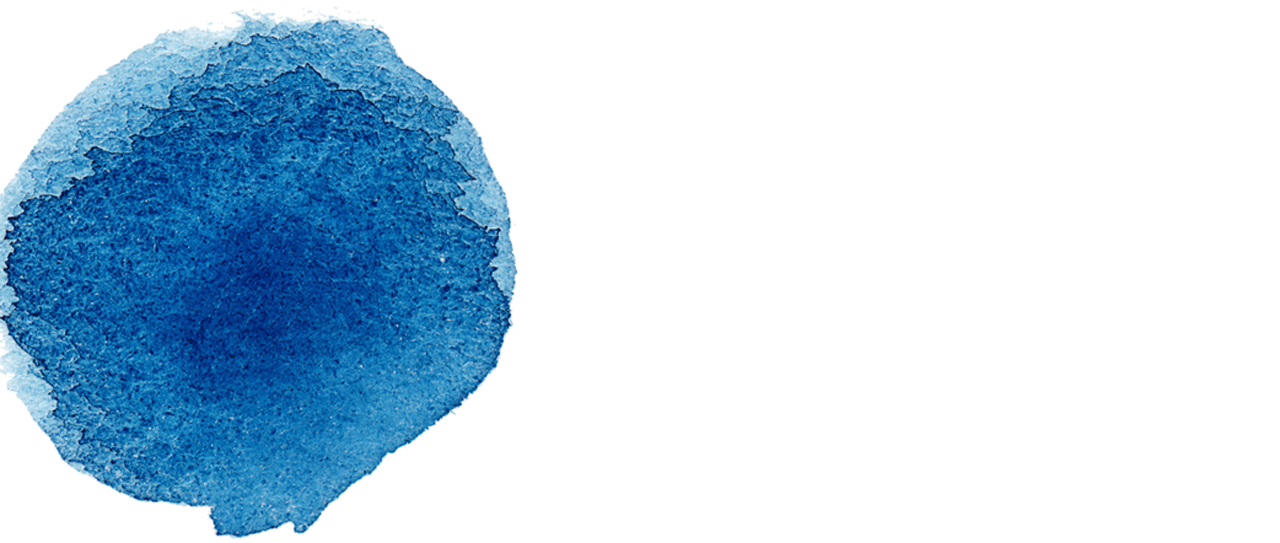
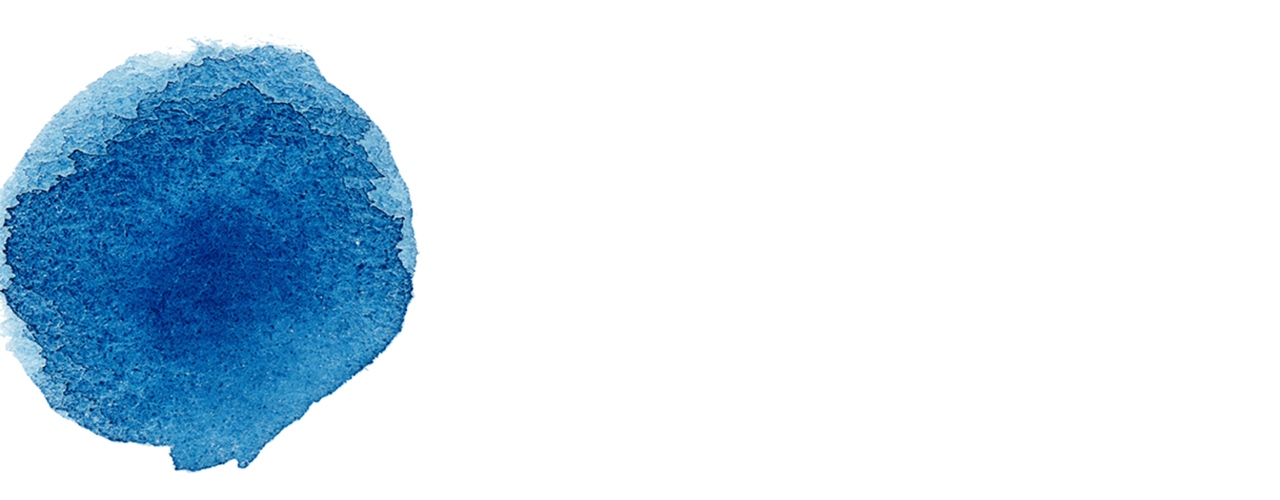
create section 2: new event

Changed region(s): [[0.0, 0.0, 0.4062, 0.99]]

diff --git a/index.html b/index.html
@@ -2,9 +2,25 @@
 <html lang="en">
   <head>
     <meta charset="utf-8">
+    <meta http-equiv="Content-Language" content="zh-tw">
     <meta http-equiv="X-UA-Compatible" content="IE=edge">
+    <meta http-equiv="cleartype" content="on">
+    <meta name="MobileOptimized" content="width">
+    <meta name="HandheldFriendly" content="true">
     <meta name="viewport" content="width=device-width, initial-scale=1">
-    <title>Hackathon Art</title>
+    <meta property="og:title" content="黑客松 Hackathon Taiwan - 實現自我的創意、挑戰體能的極限">
+    <meta property="og:type" content="website">
+    <meta property="og:url" content="http://hackathon.tw">
+    <meta property="og:image" content="http://hackathon.tw/img/hangee-hackathon01.jpg">
+    <meta property="og:site_name" content="黑客松 Hackathon">
+    <meta name="description" content="黑客松（Hackathon）是黑客（Hack）與 馬拉松（Marathon）的複合字用來表示一個『馬拉松式的科技創作活動』。連絡信箱：contact@hackathon.tw。">
+    <meta name="keywords" lang="zh-tw" content="黑客松,Hackathon,HanGee,Hack,Hacker,Maker,Hackathon Taiwan,科技創作,黑客松,编程马拉松,駭客松,自造,自造者,創意,機器人,Arduino,Raspberry Pi,3D Printer,DIY">
+    <meta name="robots" content="all,index,follow">
+    <meta name="googlebot" content="all,index,follow">
+    <meta name="revisit-after" content="1 days">
+
+    <title>黑客松 Hackathon Taiwan - 實現自我的創意、挑戰體能的極限</title>
+
     <link rel="stylesheet" href="vendor/bootstrap/dist/css/bootstrap.min.css">
     <link rel="stylesheet" href="style/css/animate.css">
     <link rel="stylesheet" href="style/css/style.css">
@@ -30,7 +46,12 @@
                         <h1 class="text-center">第六屆 <span class="color-golden"> 黑客松</span> 倒數</h1>
                     </div>
                 </div><!-- /Title -->
-
+                <!-- Slogan -->
+                <div class="row">
+                    <div class="col-md-6 col-md-offset-1">
+                        <p class="text-center color-white lead">即便是天馬行空的想法，當你開始做的時候，<br />其實離實現它已經不遠了</p>
+                    </div>
+                </div><!-- /Slogan -->
                 <!-- countdown_dashboard -->
                 <div id="countdown_dashboard" class="countdown">
                     <div class="row">
@@ -110,8 +131,47 @@
 
         <!-- Section 2 -->
         <div class="row">
-            <div class="col-md-12 cover-banner blue-ball">
-
+            <div class="col-md-12 contain-banner blue-ball">
+                <div class="row">
+                    <div class="col-md-6 col-md-offset-1 bg-white">
+                        <div class="row">
+                            <div class="col-xs-1"><span class="title-mark"></span></div>
+                            <div class="col-xs-11">
+                                <h2><span class="color-golden">黑客松</span><br /><small>Hackathon</small></h2>
+                                <p><strong>黑客松（Hackathon）是黑客（Hack）與 馬拉松（Marathon）的複合字，用來表示一個<span class="color-golden">『馬拉松式的科技創作活動』</span></strong></p>
+                                <hr>
+                                <ul class="list-unstyled">
+                                    <li><strong>黑客松不是比賽</strong></li>
+                                    <ul>
+                                        <li>一個讓設計人在閒暇時間，參與的開發運動。解放自己，做自己想做的設計和開發，挑戰自己，在有限時間內做出東西。</li>
+                                    </ul>
+                                </ul>
+                                <ul class="list-unstyled">
+                                    <li><strong>任何人都可以參加</strong></li>
+                                    <ul>
+                                        <li>黑客松是任何人都可以參加的活動，只要你有興趣、想實際參與多人設計和開發，無論你是學生、普通程式人員、還是新手設計師、初級自造者，都歡迎帶著學習、共樂的心前來參加！</li>
+                                    </ul>
+                                </ul>
+                                <ul class="list-unstyled">
+                                    <li><strong>自造、學習與交流</strong></li>
+                                    <ul>
+                                        <li>有高手大大、帥哥與美女人才們，有電有網路、有吃的有喝的，既然台灣的夏天嚴熱，當然還有附上空調視野絕佳的舒適環境，讓大家安心動手做設計、做開發！挑戰自我！</li>
+                                    </ul>
+                                </ul>
+                            </div>
+                        </div>
+                        <div class="row">
+                            <div class="col-xs-1"><span class="title-mark"></span></div>
+                            <div class="col-xs-11">
+                                <h2>藝術<br /><small>Art</small></h2>
+                                <p class="color-golden"><strong>透過想像力、技術、經驗等人為因素的融合與平衡以製作隱含美學的器物、環境、影像、動作或聲音的表達模式，以指和他人分享美的或具有深意情感的產物。</span></strong></p>
+                            </div>
+                        </div>
+                    </div>
+                    <div class="col-md-4 bg-white">
+                        <img class="img-responsive" src="img/newEvent.png" alt="">
+                    </div>
+                </div><!-- /Section 2 -->
             </div>
         </div><!-- /Section 2 -->
     </div>

diff --git a/style/css/style.css b/style/css/style.css
@@ -1,1 +1,1 @@
-.digit,.logo{position:relative}body{font-size:62.5%}.color-golden{color:#dbbd2f!important}.border{border:1px solid}.text-border{text-shadow:1px 1px 2px #333,-1px -1px 2px #333}.picasso{background-image:url(../../img/picasso.jpg)}.blue-ball{background-image:url(../img/blue-ball.png);background-position:top left}.logo{top:10px;left:30px}.top-title{margin-top:40%;color:#fff}.top-title h1{margin-bottom:7%;font-size:7em}.countdown{margin-left:13%!important}.welcome-btn{margin-left:4%}#countdown_dashboard{max-width:900px;overflow:hidden;margin:0 auto 60px;text-align:center}.digit{height:65px;color:#fff;font-size:60px;font-weight:400;line-height:65px;text-align:center;font-style:normal;display:inline-block;vertical-align:middle}.dash_title{color:#fff;display:block;font-size:20px;margin-top:15px;text-transform:uppercase}.days_dash,.hours_dash,.minutes_dash{position:relative;margin-bottom:30px}.days_dash:after,.minutes_dash:after{position:absolute;top:0;width:1px;right:-15px;height:100%;content:'';background-color:#fff}.cover-banner{background-repeat:no-repeat;background-size:cover;background-position:top center;width:100%;height:auto}.btn-transparent{border-color:#fff;color:#fff}.btn-transparent:focus,.btn-transparent:hover{background:rgba(255,255,255,.1);color:#fff;-webkit-box-shadow:none;box-shadow:none}.site-wrapper-welcome__btn{padding:16px 40px;font-size:3em;margin-right:4%}
+.digit,.logo,.title-mark{position:relative}.contain-banner,.cover-banner{background-position:top center;width:100%;height:auto;background-repeat:no-repeat}.color-golden{color:#dbbd2f!important}.color-white{color:#fff!important}.bg-white{background-color:#fff!important}.border{border:1px solid}.text-border{text-shadow:1px 1px 2px #5c5c5c,-1px -1px 2px #5c5c5c}.picasso{background-image:url(../../img/picasso.jpg)}.blue-ball{padding-top:10%;background-image:url(../../img/blue-ball.png)}.logo{top:10px;left:30px}.title-mark{top:27px;height:5px;width:30px;background-color:#5c5c5c;display:block}.top-title{margin-top:38%;margin-bottom:1%;color:#fff}.top-title h1{font-size:3.5em}.countdown{margin-left:13%!important}.welcome-btn{margin-left:4%}#countdown_dashboard{max-width:900px;overflow:hidden;margin:0 auto 60px;text-align:center}.digit{height:65px;color:#fff;font-size:60px;font-weight:400;line-height:65px;text-align:center;font-style:normal;display:inline-block;vertical-align:middle}.dash_title{color:#fff;display:block;font-size:20px;margin-top:15px;text-transform:uppercase}.days_dash,.hours_dash,.minutes_dash{position:relative;margin-bottom:30px}.days_dash:after,.minutes_dash:after{position:absolute;top:0;width:1px;right:-15px;height:100%;content:'';background-color:#fff}.cover-banner{background-size:cover}.contain-banner{background-size:contain}.btn-transparent{border-color:#fff;color:#fff}.btn-transparent:focus,.btn-transparent:hover{background:rgba(255,255,255,.1);color:#fff;-webkit-box-shadow:none;box-shadow:none}.site-wrapper-welcome__btn{padding:16px 40px;font-size:1em;margin-right:4%}

diff --git a/style/less/base/vagrlbles.less b/style/less/base/vagrlbles.less
@@ -1,13 +1,15 @@
-// globle setting
-body {
-    font-size: 62.5%;
-}
 // colors
 @golden: #dbbd2f;
-@deep_gray: #333333;
+@deep_gray: #5C5C5C;
 
 .color-golden {
     color: @golden!important;
+}
+.color-white {
+    color: white!important;
+}
+.bg-white {
+    background-color: white!important;
 }
 
 // border
@@ -23,8 +25,8 @@ body {
 	background-image: url('../../img/picasso.jpg');
 }
 .blue-ball {
-    background-image: url('../img/blue-ball.png');
-    background-position: top left;
+    padding-top: 10%;
+    background-image: url('../../img/blue-ball.png');
 }
 .logo {
     position: relative;
@@ -32,7 +34,14 @@ body {
     left: 30px;
 }
 
-
+.title-mark {
+    position: relative;
+    top: 27px;
+    height: 5px;
+    width: 30px;
+    background-color: @deep_gray;
+    display: block;
+}
 
 
 

diff --git a/style/less/module/banners.less b/style/less/module/banners.less
@@ -1,7 +1,15 @@
-.cover-banner {
+.banner(@style: cover) {
     background-repeat: no-repeat;
-    background-size: cover;
-	background-position: top center;
-	width: 100%;
-	height: auto;
+    background-size: @style;
+    background-position: top center;
+    width: 100%;
+    height: auto;
+}
+
+.cover-banner {
+    .banner;
+}
+
+.contain-banner {
+    .banner(contain);
 }

diff --git a/style/less/base/extends.less b/style/less/base/extends.less
@@ -1,16 +1,14 @@
 .top-title {
-	margin-top:40%;
+	margin-top: 38%;
+    margin-bottom: 1%;
 	color: white;
     h1 {
-        margin-bottom: 7%;
-        font-size: 7em;
+        font-size: 3.5em;
     }
 }
-
 .countdown {
     margin-left: 13%!important;
 }
-
 .welcome-btn {
     margin-left: 4%;
 }

diff --git a/style/less/module/buttons.less b/style/less/module/buttons.less
@@ -10,6 +10,6 @@
 }
 .site-wrapper-welcome__btn {
     padding: 16px 40px;
-    font-size: 3em;
+    font-size: 1em;
     margin-right: 4%;
 }
